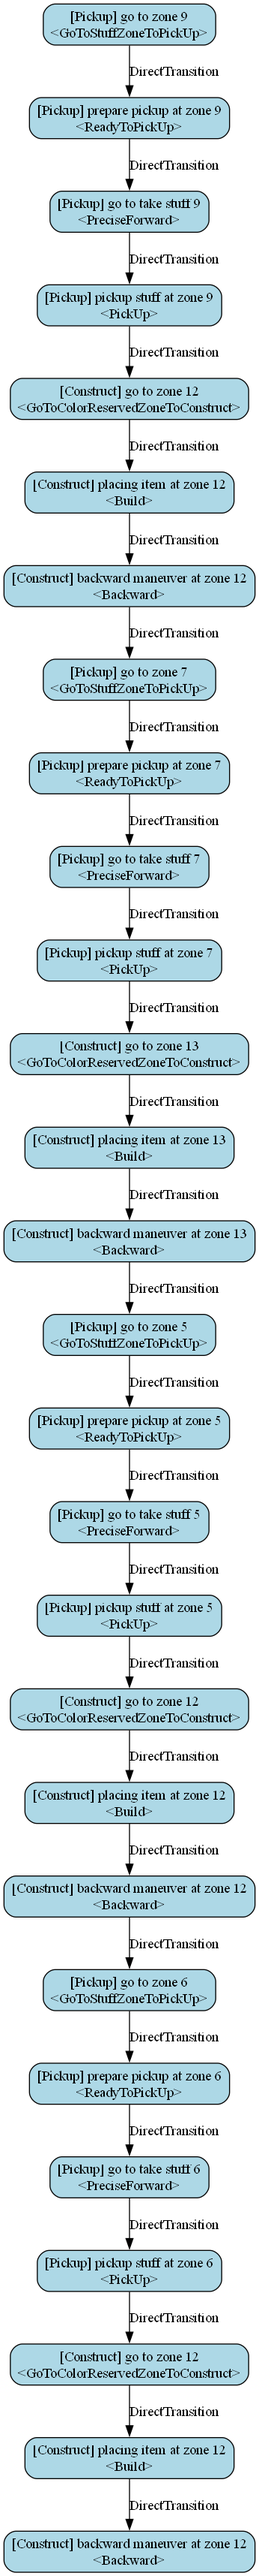
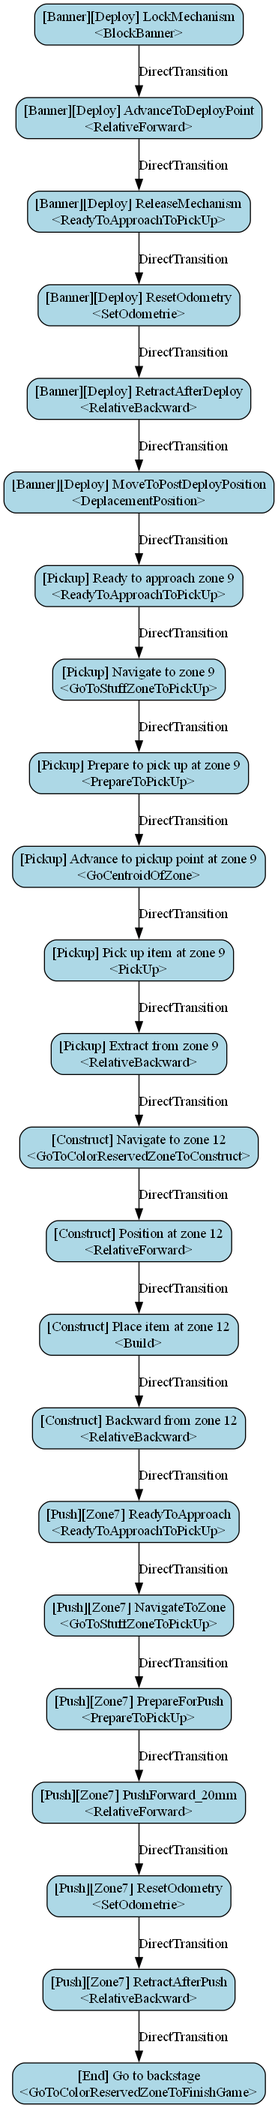
don't reoriente rolling basis after backward

diff --git a/robot1/rasp/boombot_strategy/sub_graphs/banner_deployment.py b/robot1/rasp/boombot_strategy/sub_graphs/banner_deployment.py
@@ -1,124 +1,105 @@
 # ====== Code Summary ======
-# This module defines a function `get_banner_deployement_subgraph` that constructs a task subgraph
-# for deploying a banner using a sequence of actuator and movement tasks.
-# The sequence includes blocking the banner, moving forward to deploy, unblocking for extraction,
-# and a final backward motion to safely disengage. All steps are connected via direct transitions
-# and returned as a `BaseSubGraph` for strategic execution.
+# This module defines a function `get_banner_deployment_subgraph` that builds a subgraph
+# for deploying a banner in a robotics context. The process involves locking the mechanism,
+# moving to the deployment point, releasing the mechanism, resetting orientation, retracting,
+# and finally positioning the robot for subsequent actions.
 
+# ====== Standard Library Imports ======
 import math
 
-# ====== Local Project Imports ======
+# ====== Third-party Library Imports ======
+
+# ====== Internal Project Imports ======
+from config_loader import CONFIG
 from strategy.core import (
     SubGraphBuilder,
     BaseTaskNode,
     DirectTransition,
     BaseSubGraph,
 )
-
-# ====== Internal Project Imports ======
-from config_loader import CONFIG
-from boombot_strategy.tasks.navigation_tasks import RelativeForward, RelativeBackward, SetOdometrie
+from boombot_strategy.tasks.navigation_tasks import (
+    RelativeForward,
+    RelativeBackward,
+    SetOdometrie,
+)
 from boombot_strategy.tasks.actuator_task import (
     BlockBanner,
-    ReadyToApproachToPickUp,
-    DeplacementPosition
+    ReadyToApproachToPickUp,  # used here to release the banner lock
+    DeplacementPosition,
 )
 
 
 def get_banner_deployment_subgraph() -> BaseSubGraph:
     """
-    Build a subgraph that defines the sequence of tasks for deploying a banner.
+    Construct a subgraph for executing the banner deployment sequence.
 
-    The subgraph includes blocking the banner mechanism, moving forward to deploy it,
-    unblocking for further tasks, and a backward maneuver to extract safely.
+    The steps include:
+      1. Locking the banner mechanism to prepare for deployment.
+      2. Moving forward to the deployment point.
+      3. Releasing the mechanism to deploy the banner.
+      4. Resetting the robot's orientation using odometry.
+      5. Retracting slightly after deployment.
+      6. Moving to a specific post-deployment position.
 
     Returns:
-        BaseSubGraph: A compiled subgraph representing the banner deployment operation.
+        BaseSubGraph: A structured subgraph representing the deployment sequence.
     """
-    subgraph = SubGraphBuilder()
+    builder = SubGraphBuilder()
 
-    # Node: Block the banner to prepare for deployment
-    node_block_banner = "[Banner Deployment] Block banner"
-    subgraph.add_node(
-        node_block_banner,
+    # 1) Lock banner mechanism
+    node_lock = "[Banner][Deploy] LockMechanism"
+    builder.add_node(
+        node_lock,
+        BaseTaskNode(name=node_lock, tasks=BlockBanner()),
+    )
+
+    # 2) Advance to deploy position
+    node_advance = "[Banner][Deploy] AdvanceToDeployPoint"
+    builder.add_node(
+        node_advance,
+        BaseTaskNode(name=node_advance, tasks=RelativeForward(7)),
+    )
+
+    # 3) Release banner mechanism
+    node_release = "[Banner][Deploy] ReleaseMechanism"
+    builder.add_node(
+        node_release,
+        BaseTaskNode(name=node_release, tasks=ReadyToApproachToPickUp()),
+    )
+
+    # 4) Reset odometry orientation
+    node_reset = "[Banner][Deploy] ResetOdometry"
+    builder.add_node(
+        node_reset,
         BaseTaskNode(
-            name=node_block_banner,
-            tasks=BlockBanner(),
+            name=node_reset,
+            tasks=SetOdometrie(theta=-math.pi / 2),
         ),
     )
 
-    # Node: Move forward to reach banner deployment position
-    node_forward_to_deploy_banner = "[Banner Deployment] Move forward to deploy banner"
-    subgraph.add_node(
-        node_forward_to_deploy_banner,
-        BaseTaskNode(
-            name=node_forward_to_deploy_banner,
-            tasks=RelativeForward(7),
-        ),
+    # 5) Retract after deployment
+    node_retract = "[Banner][Deploy] RetractAfterDeploy"
+    builder.add_node(
+        node_retract,
+        BaseTaskNode(name=node_retract, tasks=RelativeBackward(20)),
     )
 
-    # Node: Set new odometrie
-    node_reset_odo = ""
-    subgraph.add_node(
-        node_reset_odo,
-        BaseTaskNode(
-            name=node_reset_odo,
-            tasks=SetOdometrie(
-                theta=-math.pi/2
-            ),
-        ),
+    # 6) Move to post-deployment position
+    node_post = "[Banner][Deploy] MoveToPostDeployPosition"
+    builder.add_node(
+        node_post,
+        BaseTaskNode(name=node_post, tasks=DeplacementPosition()),
     )
 
-    # Node: Unblock banner (releasing mechanism or resetting state)
-    node_unblock_banner = "[Banner Deployment] Unblock banner"
-    subgraph.add_node(
-        node_unblock_banner,
-        BaseTaskNode(
-            name=node_unblock_banner,
-            tasks=ReadyToApproachToPickUp(),
-        ),
-    )
+    # Define task transitions in order
+    builder.connect(node_lock, DirectTransition(builder.nodes[node_advance]))
+    builder.connect(node_advance, DirectTransition(builder.nodes[node_release]))
+    builder.connect(node_release, DirectTransition(builder.nodes[node_reset]))
+    builder.connect(node_reset, DirectTransition(builder.nodes[node_retract]))
+    builder.connect(node_retract, DirectTransition(builder.nodes[node_post]))
 
-    # Node: Move backward to disengage after deployment
-    node_backward_to_extract = "[Banner Deployment] Move backward to extract"
-    subgraph.add_node(
-        node_backward_to_extract,
-        BaseTaskNode(
-            name=node_backward_to_extract,
-            tasks=RelativeBackward(20),
-        ),
-    )
-
-    # Node: Deplacement position
-    node_deplacement_position = "[Banner Deployment] Deplacement position"
-    subgraph.add_node(
-        node_deplacement_position,
-        BaseTaskNode(
-            name=node_deplacement_position,
-            tasks=DeplacementPosition(),
-        ),
-    )
-
-    # Transitions between nodes to form a linear task flow
-    subgraph.connect(
-        node_block_banner,
-        DirectTransition(subgraph.nodes[node_forward_to_deploy_banner]),
-    )
-    subgraph.connect(
-        node_forward_to_deploy_banner,
-        DirectTransition(subgraph.nodes[node_unblock_banner]),
-    )
-    subgraph.connect(
-        node_unblock_banner,
-        DirectTransition(subgraph.nodes[node_backward_to_extract]),
-    )
-    subgraph.connect(
-        node_backward_to_extract,
-        DirectTransition(subgraph.nodes[node_deplacement_position]),
-    )
-
-    # Return the completed subgraph with specified entry and exit nodes
-    return subgraph.build(
-        entry=node_block_banner,
-        exits=node_deplacement_position,
+    # Build and return the subgraph
+    return builder.build(
+        entry=node_lock,
+        exits=node_post,
     )

diff --git a/common/navigation/trajectory_planner/sequential_trajectory_planner/sequential_trajectory_planner.py b/common/navigation/trajectory_planner/sequential_trajectory_planner/sequential_trajectory_planner.py
@@ -181,40 +181,42 @@ class SequentialTrajectoryPlanner(
         Args:
             path (list[OrientedPoint]): List of oriented points representing the path.
         """
-        # Initialize the segment mapper
+        # Initialize the segment list
         segments: list[BaseSegment] = []
+        # Iterate over each pair of consecutive waypoints
         for i in range(len(path) - 1):
             start = path[i]
             target = path[i + 1]
 
-            # 1. Compute the rotation segment (get orientation in front of the target)
-            rotation_segment: RotationSegment = (
-                self._compute_rotation_segment_to_be_front(start, target)
-            )
+            # 1. Compute rotation to face the next waypoint
+            rotation_segment = self._compute_rotation_segment_to_be_front(start, target)
             segments.append(rotation_segment)
 
-            # 2. Compute the straight segment (move to the target)
-            straight_segment: StraightSegment = self._compute_straight_segment(
+            # 2. Compute straight-line segment to reach the waypoint
+            straight_segment = self._compute_straight_segment(
                 rotation_segment.end_position, target
             )
             segments.append(straight_segment)
 
-            # 3. Compute the rotation segment (get orientation of the target point)
-            # Ensure to respect the orientation of intermediate points if required
-            # or if it's the last segment (i == len(path) - 2)
-            if self.params.respect_intermediate_orientation or i == len(path) - 2:
-                rotation_segment: RotationSegment = (
+            # 3. Compute rotation to align with waypoint orientation
+            # Apply for intermediate points if respect_intermediate_orientation=True,
+            # or for the final goal if respect_goal_orientation=True
+            if self.params.respect_intermediate_orientation or (
+                self.params.respect_goal_orientation and i == len(path) - 2
+            ):
+                rotation_segment = (
                     self._compute_rotation_segment_to_get_same_orientation(
                         straight_segment.end_position, target
                     )
                 )
                 segments.append(rotation_segment)
             else:
+                # Override intermediate waypoint orientation to current heading to skip rotation
                 path[i + 1] = OrientedPoint(
                     path[i + 1].x, path[i + 1].y, straight_segment.end_position.theta
                 )
 
-            # 4. Add a stop segment to mark a pause between segments
+            # 4. Add a stop segment if a pause is configured
             if self.params.step_sleep_delay > 0:
                 segments.append(
                     StopSegment(
@@ -224,6 +226,7 @@ class SequentialTrajectoryPlanner(
                     )
                 )
 
+        # Store the mapped segments for execution
         self.segments_mapper = SegmentMapper(segments)
 
     @BaseTrajectoryPlanner._ensure_planning_started

diff --git a/common/navigation/trajectory_planner/sequential_trajectory_planner/sequential_trajectory_planner_params.py b/common/navigation/trajectory_planner/sequential_trajectory_planner/sequential_trajectory_planner_params.py
@@ -24,6 +24,7 @@ class SequentialTrajectoryPlannerParams(BaseTrajectoryPlannerParams):
         direction: Direction = Direction.FORWARD,
         step_sleep_delay: float = 0.0,
         respect_intermediate_orientation: bool = False,
+        respect_goal_orientation: bool = True,
     ) -> None:
         """
         Initialize parameters for sequential trajectory planning.
@@ -31,10 +32,12 @@ class SequentialTrajectoryPlannerParams(BaseTrajectoryPlannerParams):
         Args:
             step_sleep_delay (float): Time delay between each segment in the trajectory.
             respect_intermediate_orientation (bool): If True, the trajectory planner will
-                respect the intermediate orientation of the robot when planning the trajectory.
+            respect the intermediate orientation of the robot when planning the trajectory.
+            respect_goal_orientation (bool): If True, the trajectory planner will respect the orientation of the goal point (last one)
         """
         self.step_sleep_delay: float = step_sleep_delay
         self.respect_intermediate_orientation: bool = respect_intermediate_orientation
+        self.respect_goal_orientation: bool = respect_goal_orientation
         super().__init__(
             trajectory_planning_strategy=TrajectoryPlannerStrategy.SEQUENTIAL,
             direction=direction,

diff --git a/robot1/rasp/boombot_strategy/strategies/tower_rush_strategy.py b/robot1/rasp/boombot_strategy/strategies/tower_rush_strategy.py
@@ -22,7 +22,7 @@ from boombot_strategy.sub_graphs import (
     get_pickup_subgraph,
     get_banner_deployment_subgraph,
     get_construct_one_floor_subgraph,
-    get_push_one_floor_to_wall_subgraph
+    get_push_one_floor_to_wall_subgraph,
 )
 from boombot_strategy.tasks.navigation_tasks.go_to_color_reserved_zone import (
     GoToColorReservedZoneToFinishGame,
@@ -62,7 +62,7 @@ class TowerRushStrategy(BaseStrategy):
         second_pickup_subgraph = get_push_one_floor_to_wall_subgraph(
             zone_id=self.zones["second_pickup_zone"],
             push_distance=20,
-            new_theta=-math.pi
+            new_theta=-math.pi,
         )
 
         # Step 6: Move to the backstage zone to finish the game
@@ -79,12 +79,11 @@ class TowerRushStrategy(BaseStrategy):
             DirectTransition(first_construct_subgraph.get_entry())
         )
         first_construct_subgraph.get_exits()[0].add_transition(
-             DirectTransition(second_pickup_subgraph.get_entry())
+            DirectTransition(second_pickup_subgraph.get_entry())
         )
         second_pickup_subgraph.get_exits()[0].add_transition(
-             DirectTransition(go_to_backstage)
+            DirectTransition(go_to_backstage)
         )
-
 
         # Create the graph runner starting from the first subgraph
         self.runner = GraphRunner(

diff --git a/robot1/rasp/boombot_strategy/tasks/navigation_tasks/maneuver.py b/robot1/rasp/boombot_strategy/tasks/navigation_tasks/maneuver.py
@@ -41,7 +41,8 @@ class RelativeBackward(NavigationTask):
             goal=None,
             path_planner_params=DeltaPathPlannerParams(distance=-distance),
             trajectory_planner_params=SequentialTrajectoryPlannerParams(
-                direction=Direction.BACKWARD
+                direction=Direction.BACKWARD,
+                respect_goal_orientation=False
             ),
             speed_profiler=CONFIG.ROLLING_BASIS_DEFAULT_SPEED_PROFILER,
             avoidance_params=NoAvoidanceParams(),

diff --git a/robot1/rasp/brains/main_brain.py b/robot1/rasp/brains/main_brain.py
@@ -140,6 +140,9 @@ class MainBrain(Brain):
             )
         )
 
+        from strategy.tools import visualize_task_graph
+        visualize_task_graph(strategy.runner.active[0])
+
         # --- MetaProg is insane (loop) --- #
         context = ShowGameContext(
             arena=self.arena,
